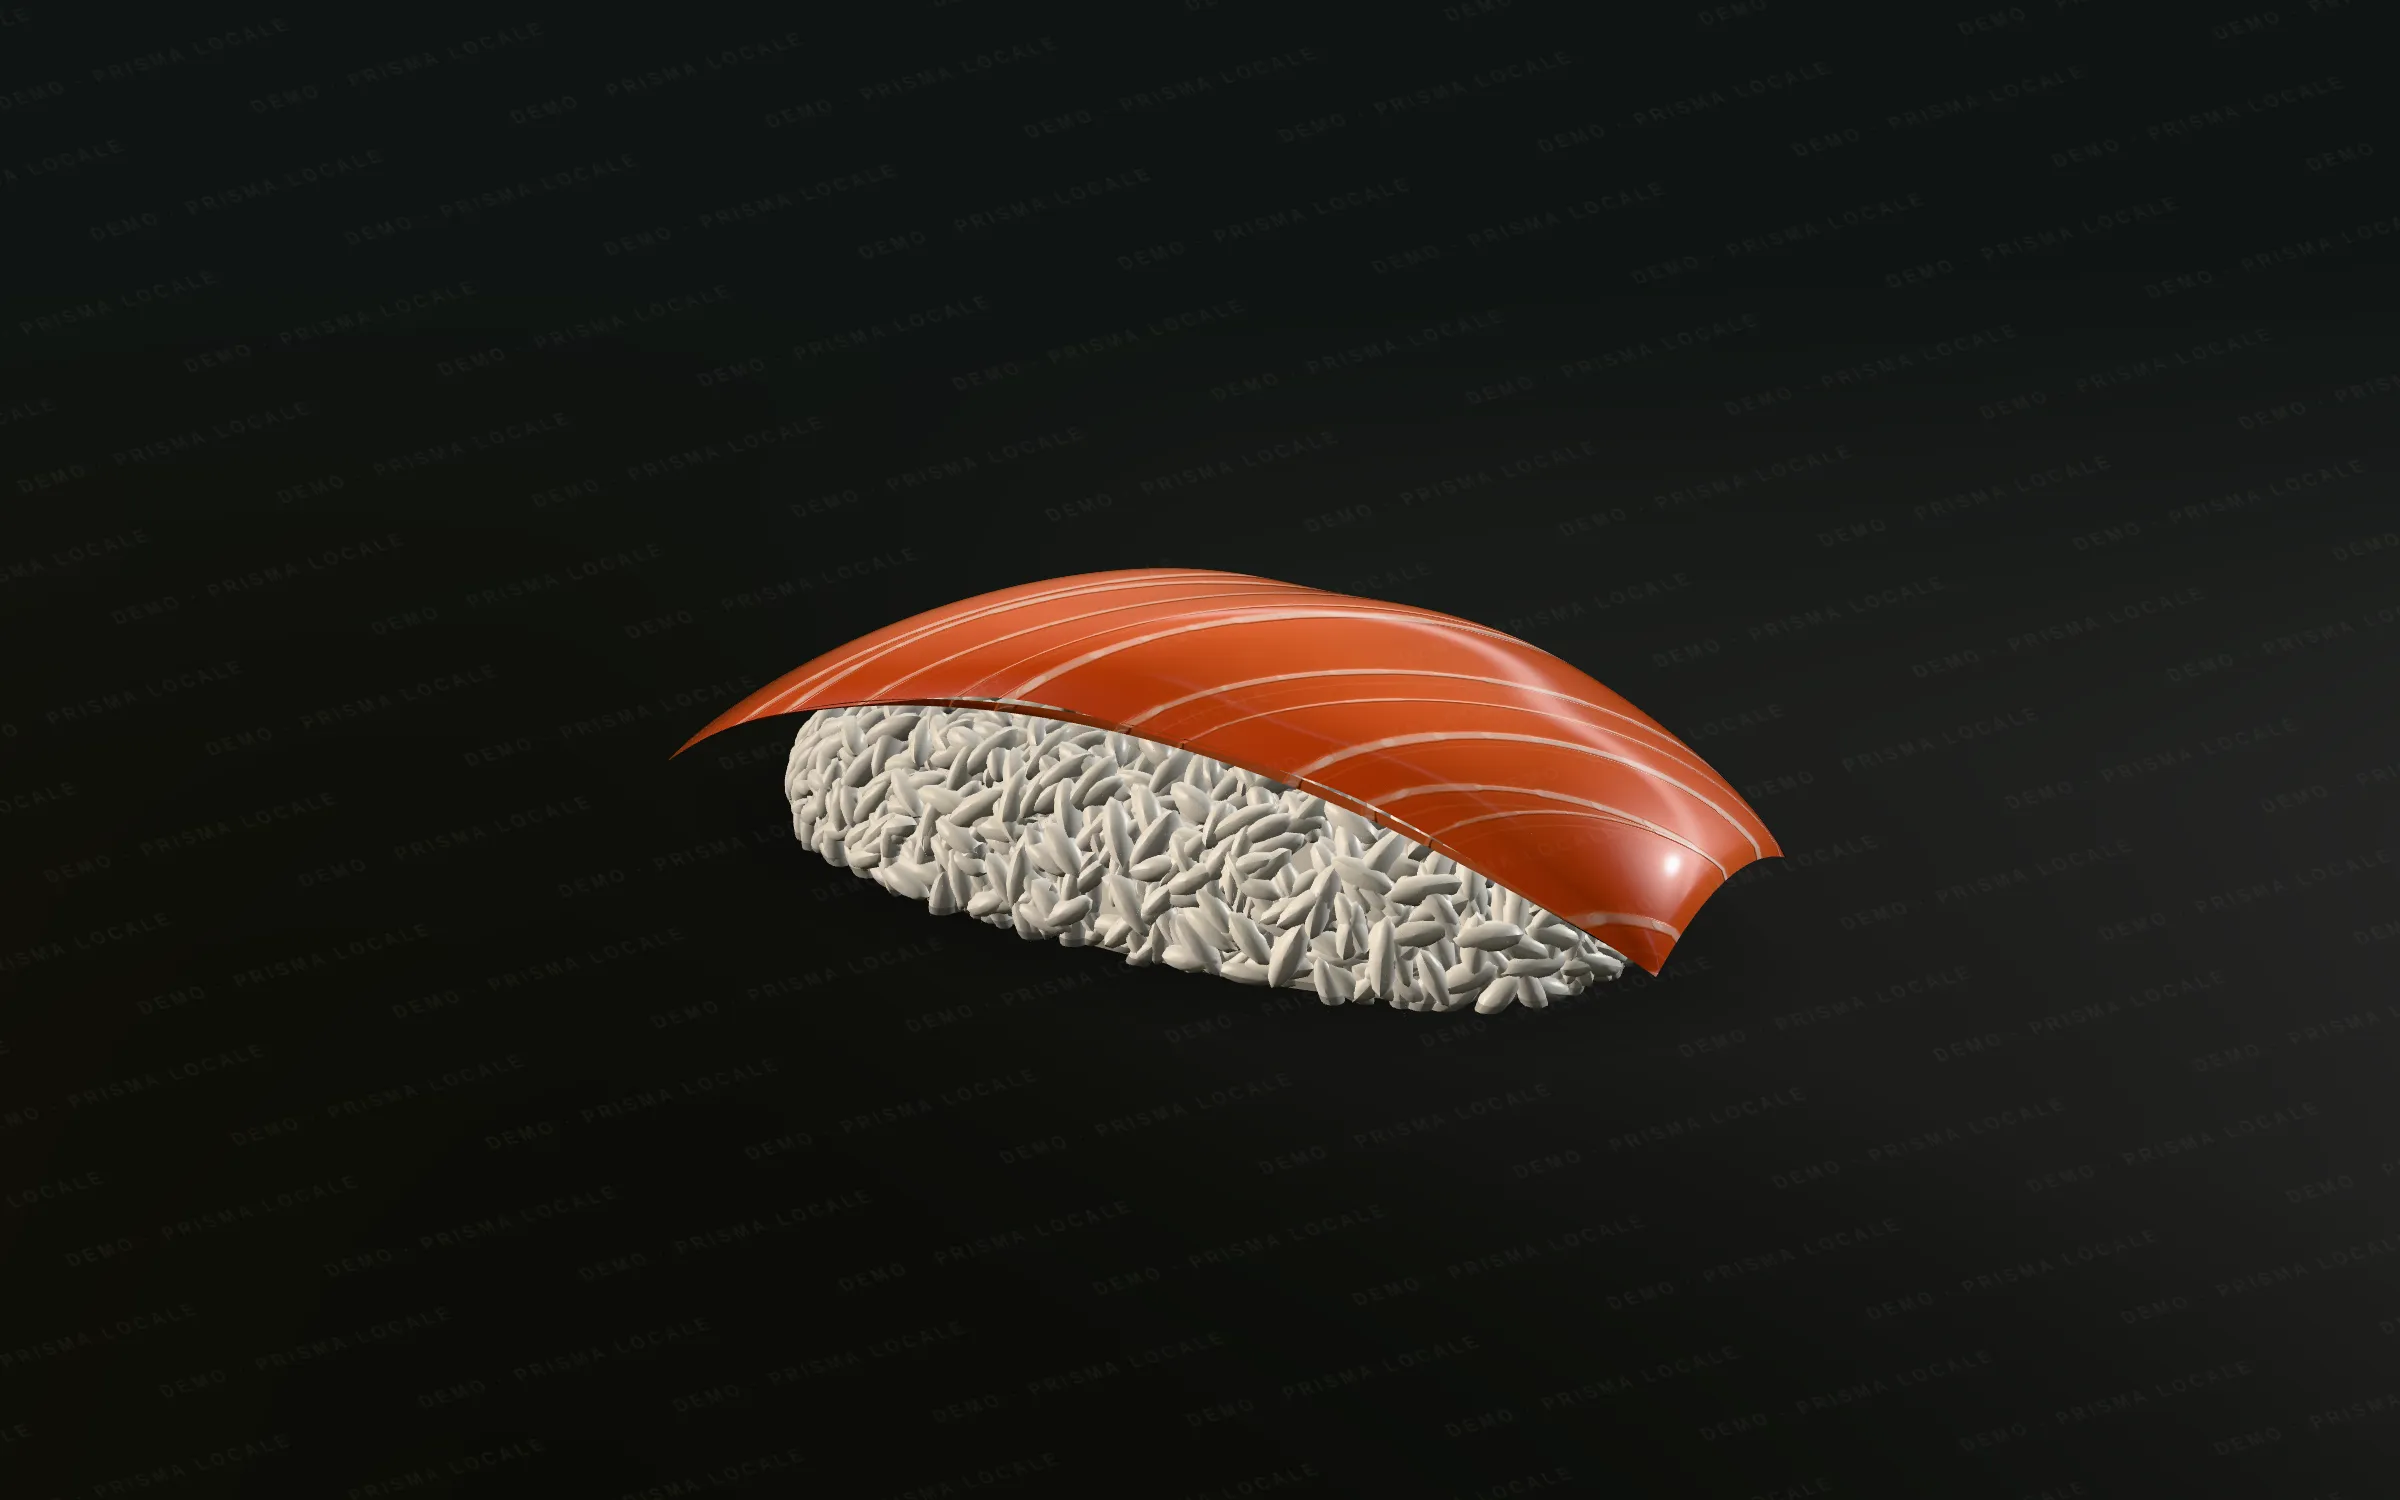
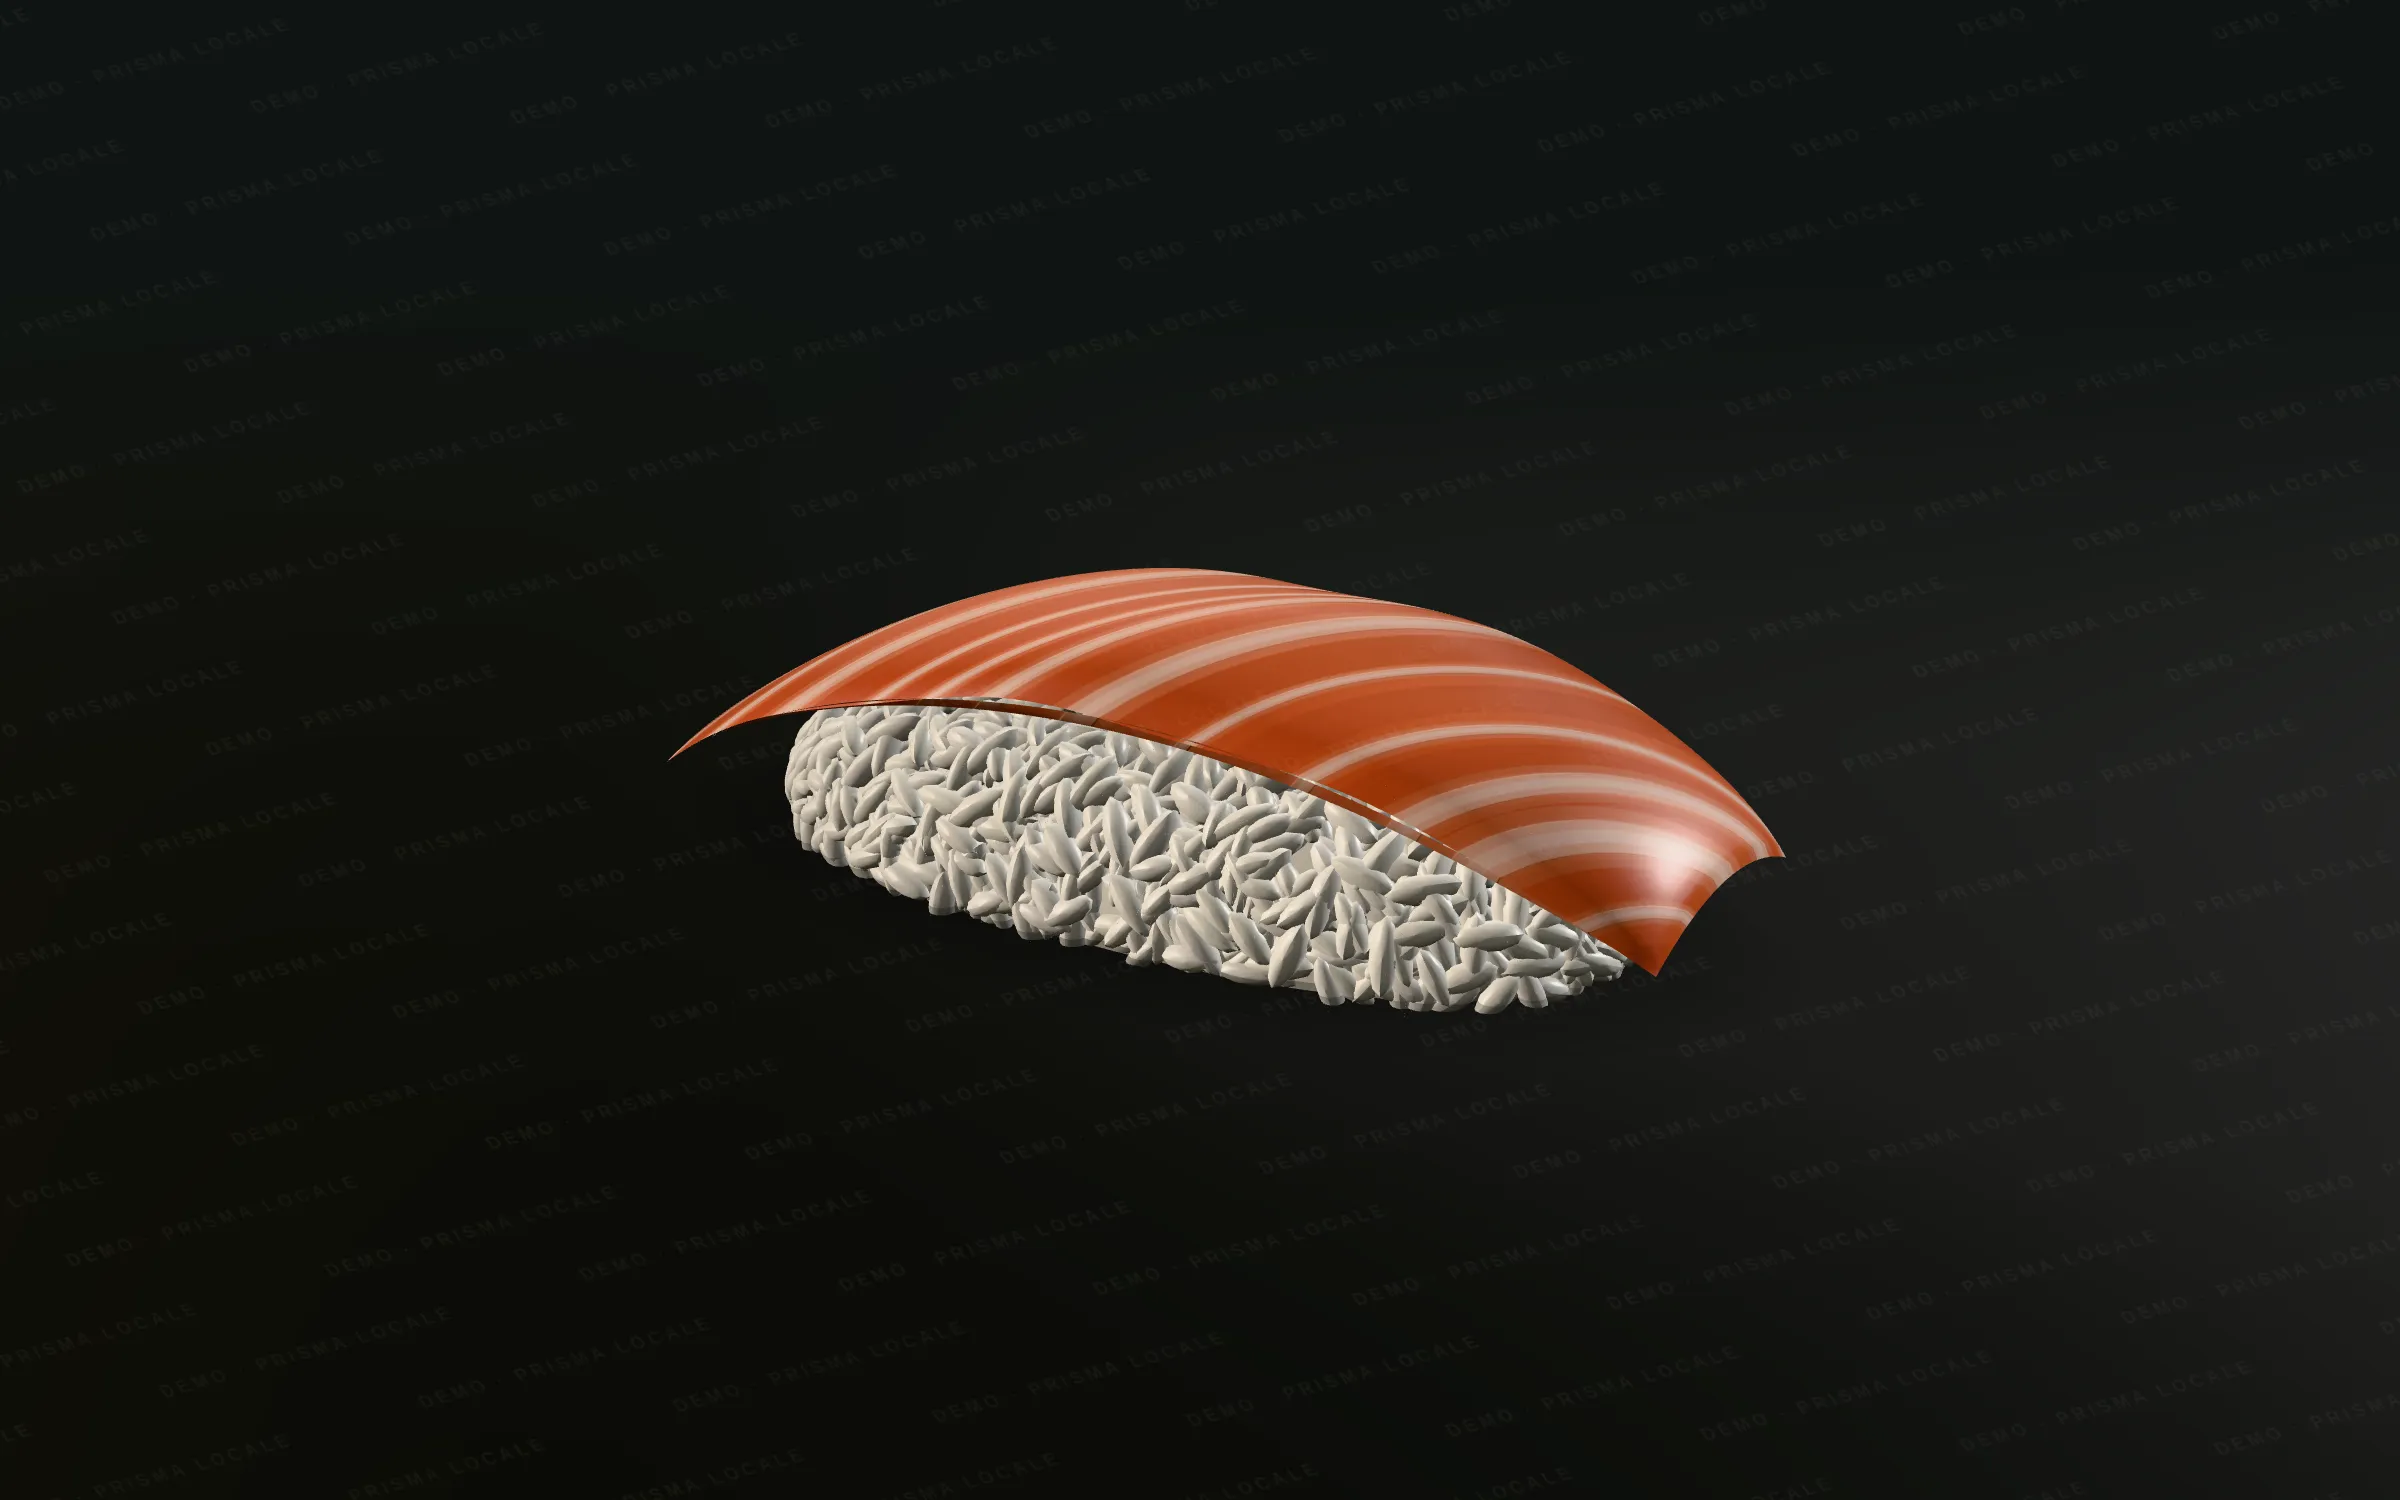
Nagoya: salmone più realistico (#4)
Bande larghe e curve in diagonale, carne che scurisce tra una banda e
l'altra, fibre e grana; bordi sottili più chiari come in controluce;
riflesso umido invece che laccato.

Claude-Session: https://claude.ai/code/session_016QpVZ6nTUEziGXpZc5M1Gf

Changed region(s): [[0.2812, 0.368, 0.75, 0.644]]

diff --git a/src/anteprime/nagoya/nigiri.js b/src/anteprime/nagoya/nigiri.js
@@ -228,96 +228,102 @@ function geometriaCuore() {
 
 /* ---- Salmone ------------------------------------------------------------- */
 
-/* Colore e rilievo dalla stessa mano: le venature di grasso sono diagonali,
-   come i tagli del sito, e appena in rilievo sulla carne. */
+/* Colore e rilievo dalla stessa mano. Come nel salmone vero: bande di grasso
+   larghe e sfumate che attraversano la fetta in diagonale con una leggera
+   curva, carne che scurisce tra una banda e l'altra, fibre sottili. */
 function trameSalmone() {
-  const W = 1024;
-  const H = 512;
+  const W = 2048;
+  const H = 1024;
   const colore = document.createElement('canvas');
   const rilievo = document.createElement('canvas');
   colore.width = rilievo.width = W;
   colore.height = rilievo.height = H;
   const g = colore.getContext('2d');
   const r = rilievo.getContext('2d');
+  const rand = random(11);
 
   const fondo = g.createLinearGradient(0, 0, 0, H);
-  fondo.addColorStop(0, '#C9401B');
-  fondo.addColorStop(0.3, '#F2683A');
-  fondo.addColorStop(0.55, '#FF7A4D');
-  fondo.addColorStop(0.85, '#F46A3E');
-  fondo.addColorStop(1, '#D9502A');
+  fondo.addColorStop(0, '#D85A33');
+  fondo.addColorStop(0.35, '#EC7348');
+  fondo.addColorStop(0.65, '#F07B50');
+  fondo.addColorStop(1, '#DE6238');
   g.fillStyle = fondo;
   g.fillRect(0, 0, W, H);
-  r.fillStyle = '#6a6a6a';
+  r.fillStyle = '#707070';
   r.fillRect(0, 0, W, H);
 
-  // Carne non uniforme: macchie morbide più chiare e più scure.
-  const rand = random(11);
-  for (let k = 0; k < 140; k++) {
-    const x = rand() * W;
-    const y = rand() * H;
-    const raggio = 20 + rand() * 70;
-    const macchia = g.createRadialGradient(x, y, 0, x, y, raggio);
-    const tinta = rand() > 0.5 ? '255,150,110' : '190,60,25';
-    macchia.addColorStop(0, `rgba(${tinta},${0.05 + rand() * 0.08})`);
-    macchia.addColorStop(1, `rgba(${tinta},0)`);
-    g.fillStyle = macchia;
-    g.fillRect(x - raggio, y - raggio, raggio * 2, raggio * 2);
+  // Il percorso di una banda: dal bordo superiore a quello inferiore,
+  // spostata in avanti (la diagonale) e appena incurvata.
+  const percorso = (ctx, x, piega, sbieco) => {
+    ctx.beginPath();
+    ctx.moveTo(x, -40);
+    ctx.bezierCurveTo(x + sbieco * 0.25 + piega, H * 0.3, x + sbieco * 0.7 - piega, H * 0.7, x + sbieco, H + 40);
+  };
+
+  const bande = [];
+  let x = -760;
+  while (x < W + 80) {
+    bande.push({ x, piega: (rand() - 0.5) * 120, sbieco: 560 + rand() * 140, larga: 22 + rand() ** 1.4 * 46 });
+    x += 120 + rand() * 120;
   }
 
   g.lineCap = r.lineCap = 'round';
-  let x0 = -640;
-  while (x0 < 1100) {
-    const larghezza = 3 + rand() ** 1.5 * 13;
-    const curva = 150 + rand() * 140;
-    const sbieco = 420 + rand() * 110;
-    // Ogni venatura è a tratti: più piena al centro, sfumata ai lati.
-    const tratti = 14;
-    for (let s = 0; s < tratti; s++) {
-      const t0 = s / tratti;
-      const t1 = (s + 1) / tratti;
-      const punto = (tt) => {
-        const xa = (1 - tt) ** 2 * x0 + 2 * (1 - tt) * tt * (x0 + curva) + tt * tt * (x0 + sbieco);
-        const ya = (1 - tt) ** 2 * -30 + 2 * (1 - tt) * tt * 256 + tt * tt * 542;
-        return [xa, ya];
-      };
-      const [ax, ay] = punto(t0);
-      const [bx, by] = punto(t1);
-      const pieno = 0.45 + 0.45 * Math.sin(t0 * Math.PI) * (0.7 + rand() * 0.3);
-      const spessore = larghezza * (0.7 + rand() * 0.5);
-      g.shadowColor = 'rgba(255, 226, 206, 0.75)';
-      g.shadowBlur = 8;
-      g.strokeStyle = `rgba(255, 238, 228, ${pieno})`;
-      g.lineWidth = spessore;
-      g.beginPath();
-      g.moveTo(ax, ay);
-      g.lineTo(bx, by);
+  for (const [i, b] of bande.entries()) {
+    // La carne si fa più scura verso la banda successiva.
+    const passo = (bande[i + 1]?.x ?? b.x + 180) - b.x;
+    g.strokeStyle = 'rgba(150, 40, 15, 0.16)';
+    g.lineWidth = passo * 0.45;
+    g.save();
+    g.translate(passo * 0.55, 0);
+    percorso(g, b.x, b.piega, b.sbieco);
+    g.stroke();
+    g.restore();
+    // Fibre: righe sottilissime parallele alle bande.
+    for (let f = 0; f < 7; f++) {
+      const scarto = b.larga * 0.6 + rand() * passo * 0.8;
+      g.strokeStyle = rand() > 0.5 ? 'rgba(255, 190, 160, 0.08)' : 'rgba(140, 35, 10, 0.08)';
+      g.lineWidth = 1 + rand() * 1.5;
+      percorso(g, b.x + scarto, b.piega, b.sbieco);
       g.stroke();
-      r.strokeStyle = `rgba(235,235,235,${pieno})`;
-      r.lineWidth = spessore * 1.3;
-      r.beginPath();
-      r.moveTo(ax, ay);
-      r.lineTo(bx, by);
-      r.stroke();
+    }
+  }
+
+  // Il grasso: tre passate, alone largo, corpo, nucleo più chiaro.
+  for (const b of bande) {
+    const strati = [
+      [b.larga * 1.9, 'rgba(250, 196, 170, 0.28)', 26],
+      [b.larga, 'rgba(250, 214, 196, 0.62)', 10],
+      [b.larga * 0.4, 'rgba(255, 232, 220, 0.45)', 4],
+    ];
+    for (const [larghezza, tinta, sfuma] of strati) {
+      g.shadowColor = tinta;
+      g.shadowBlur = sfuma;
+      g.strokeStyle = tinta;
+      g.lineWidth = larghezza;
+      percorso(g, b.x, b.piega, b.sbieco);
+      g.stroke();
     }
     g.shadowBlur = 0;
-    if (rand() > 0.4) {
-      const scarto = larghezza + 10 + rand() * 16;
-      g.strokeStyle = 'rgba(255, 214, 196, 0.25)';
-      g.lineWidth = 1.2 + rand() * 1.4;
-      g.beginPath();
-      g.moveTo(x0 + scarto, -30);
-      g.quadraticCurveTo(x0 + curva + scarto, 256, x0 + sbieco + scarto, 542);
-      g.stroke();
-    }
-    x0 += 52 + rand() * 66;
+    r.shadowColor = 'rgba(210,210,210,0.8)';
+    r.shadowBlur = 14;
+    r.strokeStyle = 'rgba(200,200,200,0.8)';
+    r.lineWidth = b.larga;
+    percorso(r, b.x, b.piega, b.sbieco);
+    r.stroke();
+    r.shadowBlur = 0;
+  }
+
+  // Grana minuta della carne.
+  for (let k = 0; k < 9000; k++) {
+    g.fillStyle = rand() > 0.5 ? 'rgba(255,200,170,0.05)' : 'rgba(120,30,10,0.05)';
+    g.fillRect(rand() * W, rand() * H, 2 + rand() * 3, 2 + rand() * 3);
   }
 
   const mappa = new CanvasTexture(colore);
   mappa.colorSpace = SRGBColorSpace;
-  mappa.anisotropy = 4;
+  mappa.anisotropy = 8;
   const bump = new CanvasTexture(rilievo);
-  bump.anisotropy = 4;
+  bump.anisotropy = 8;
   return { mappa, bump };
 }
 
@@ -333,6 +339,7 @@ function geometriaFetta(dettaglio) {
   const piatta = new Float32Array(perFaccia * 2 * 3);
   const posata = new Float32Array(perFaccia * 2 * 3);
   const uv = new Float32Array(perFaccia * 2 * 2);
+  const colori = new Float32Array(perFaccia * 2 * 3);
   const indici = [];
 
   for (let faccia = 0; faccia < 2; faccia++) {
@@ -351,6 +358,9 @@ function geometriaFetta(dettaglio) {
         const cala = 0.3 * u * u + 0.07 * u ** 4;
         posata.set([x * 0.97, y - cala - 0.08 * v * v, z * 0.98], k * 3);
         uv.set([i / nu, j / nv], k * 2);
+        // Dove la fetta è sottile la luce passa: più chiara e più rosata.
+        const sottile = 1 - Math.min(1, spessore / (T / 2));
+        colori.set([0.86 + 0.14 * sottile, 0.84 + 0.16 * sottile, 0.84 + 0.16 * sottile], k * 3);
       }
     }
     for (let j = 0; j < nv; j++) {
@@ -368,6 +378,7 @@ function geometriaFetta(dettaglio) {
   const geometry = new BufferGeometry();
   geometry.setAttribute('position', new BufferAttribute(piatta, 3));
   geometry.setAttribute('uv', new BufferAttribute(uv, 2));
+  geometry.setAttribute('color', new BufferAttribute(colori, 3));
   geometry.setIndex(indici);
   geometry.computeVertexNormals();
 
@@ -564,17 +575,20 @@ export function createNigiri(host, options = {}) {
     new MeshPhysicalMaterial({
       map: trame.mappa,
       bumpMap: trame.bump,
-      bumpScale: 1.6,
-      roughness: 0.4,
-      clearcoat: 1,
-      clearcoatRoughness: 0.07,
-      sheen: 0.6,
-      sheenRoughness: 0.45,
-      sheenColor: new Color('#ffb393'),
+      bumpScale: 0.9,
+      vertexColors: true,
+      // Superficie umida, non laccata: riflesso morbido e largo.
+      roughness: 0.46,
+      clearcoat: 0.4,
+      clearcoatRoughness: 0.3,
+      sheen: 0.35,
+      sheenRoughness: 0.5,
+      sheenColor: new Color('#ffc8ae'),
+      specularColor: new Color('#ffe6da'),
       // La carne lascia passare un po' di luce: un bagliore caldo nelle ombre.
-      emissive: new Color('#6a2008'),
-      emissiveIntensity: 0.4,
-      specularIntensity: 0.7,
+      emissive: new Color('#5c1c08'),
+      emissiveIntensity: 0.3,
+      specularIntensity: 0.55,
     }),
   );
   scene.add(fetta);
